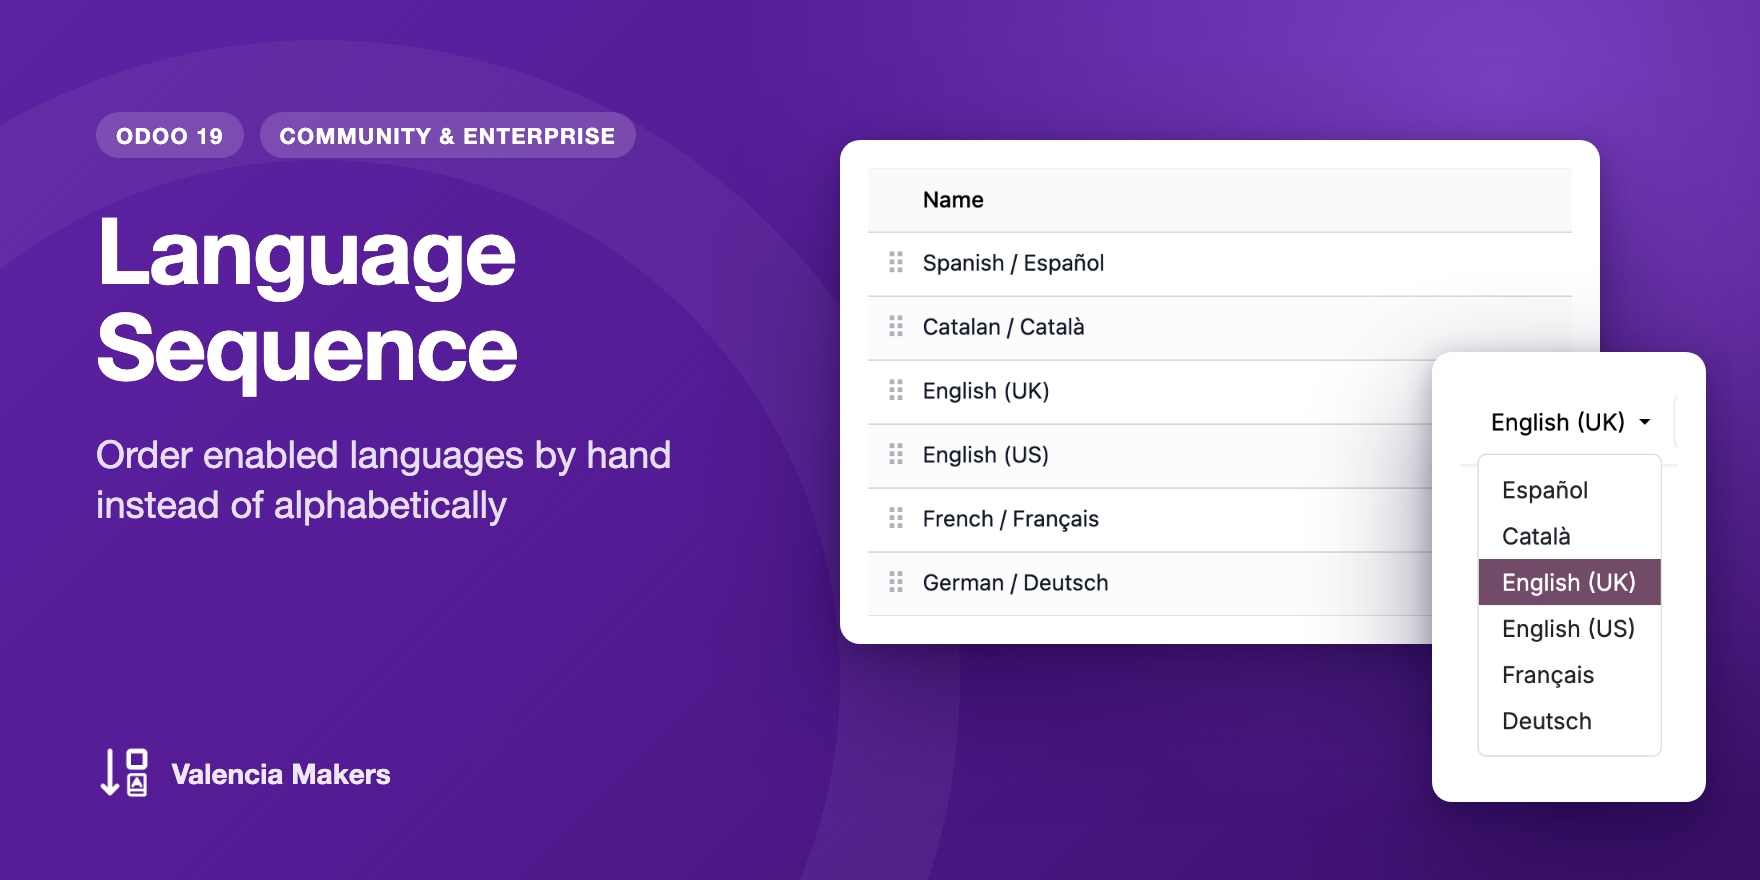
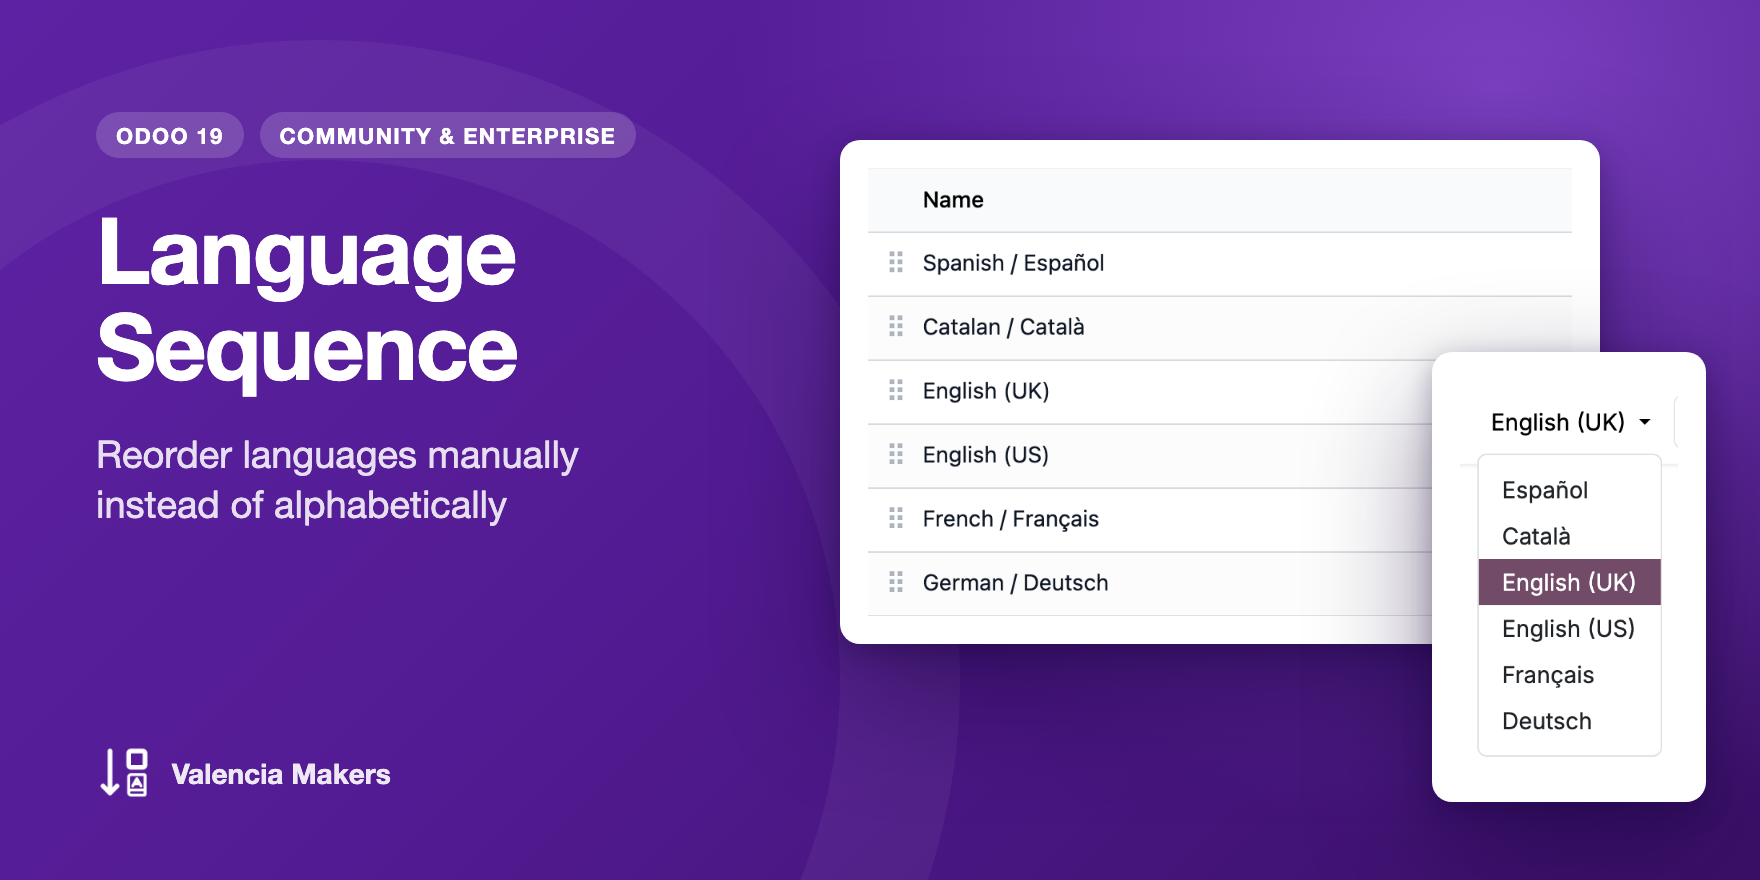
Apply Felix's text review to Language Sequence's store page and manual
- Summary: "Reorder languages manually instead of alphabetically". Odoo's own text never says
  "by hand"; it says "reorder" and "manually". Updated in the manifest, the POT and both
  translations, the test that checks for them, the cover tagline, and both READMEs.
- Page: a new tagline and intro, the before-and-after caption, and tighter bullets. The note on
  developer mode now says where the Languages list is. The manual and README follow.

Changed region(s): [[0.0625, 0.4909, 0.375, 0.5523]]

diff --git a/vmk_language_sequence/static/description/index.html b/vmk_language_sequence/static/description/index.html
@@ -1,14 +1,14 @@
 <section class="oe_container">
     <div class="oe_row oe_spaced">
         <h2 class="oe_slogan" style="font-family:Lato, 'Open Sans', Helvetica, sans-serif; font-weight:300; text-align:center; margin:32px 0; font-size:40px; line-height:48px; color:light-dark(#531B93, #B794F4);">Language Sequence</h2>
-        <h3 class="oe_slogan" style="font-family:Lato, 'Open Sans', Helvetica, sans-serif; font-weight:300; text-align:center; margin:32px 0; font-size:26px; line-height:31px; color:light-dark(#333333, #E4E4E4); opacity:0.5;">Put your languages in the order your customers expect</h3>
+        <h3 class="oe_slogan" style="font-family:Lato, 'Open Sans', Helvetica, sans-serif; font-weight:300; text-align:center; margin:32px 0; font-size:26px; line-height:31px; color:light-dark(#333333, #E4E4E4); opacity:0.5;">Display your languages in the order your users expect</h3>
         <div class="oe_span12">
             <img class="oe_screenshot" style="max-width:100%;" src="main_screenshot.png" alt="The Languages list with drag handles, ordered Spanish, Catalan, English (UK), English (US), French, German"/>
         </div>
         <div class="oe_span12">
             <div class="oe_mt32" style="max-width:700px; margin-left:auto; margin-right:auto;">
                 <p style="font-family:-apple-system, system-ui, 'Segoe UI', Roboto, 'Helvetica Neue', Ubuntu, 'Noto Sans', Arial, sans-serif; font-size:14px; font-weight:400; line-height:21px; color:light-dark(#111827, #E4E4E4); margin:0 0 16px;">
-                    In standard Odoo, languages are always listed alphabetically by their English name, so a Valencia business's website offers Català, English, Français, Deutsch, Español, in that order. <b>Language Sequence</b> lets you drag your languages into the order you choose.
+                    In standard Odoo, languages are always listed alphabetically by their English name, so a Valencia business that offers Català, English, Français, Deutsch, and Español will display them in that order. <b>Language Sequence</b> lets you drag enabled languages into any order you choose.
                 </p>
             </div>
         </div>
@@ -18,7 +18,7 @@
 <section class="oe_container">
     <div class="oe_row oe_spaced">
         <h2 class="oe_slogan" style="font-family:Lato, 'Open Sans', Helvetica, sans-serif; font-weight:300; text-align:center; margin:32px 0; font-size:40px; line-height:48px; color:light-dark(#531B93, #B794F4);">Before and after</h2>
-        <h3 class="oe_slogan" style="font-family:Lato, 'Open Sans', Helvetica, sans-serif; font-weight:300; text-align:center; margin:32px 0; font-size:26px; line-height:31px; color:light-dark(#333333, #E4E4E4); opacity:0.5;">The website's language selector, in standard Odoo and ordered by hand</h3>
+        <h3 class="oe_slogan" style="font-family:Lato, 'Open Sans', Helvetica, sans-serif; font-weight:300; text-align:center; margin:32px 0; font-size:26px; line-height:31px; color:light-dark(#333333, #E4E4E4); opacity:0.5;">The language selector, as shown in the website navigation</h3>
         <div class="oe_span12">
             <div class="row" style="max-width:440px; margin:32px auto 0;">
                 <div class="col-6" style="margin-bottom:24px;">
@@ -33,19 +33,19 @@
             <div class="row" style="max-width:800px; margin:24px auto 20px;">
                 <div class="col-md-6" style="margin-bottom:28px;"><div style="display:flex;">
                     <span class="fa fa-arrows-v fa-2x fa-fw" style="color:light-dark(#531B93, #B794F4); margin-right:16px;"></span>
-                    <p style="font-family:-apple-system, system-ui, 'Segoe UI', Roboto, 'Helvetica Neue', Ubuntu, 'Noto Sans', Arial, sans-serif; font-size:14px; font-weight:400; line-height:21px; color:light-dark(#111827, #E4E4E4); margin:0;">Drag languages into order on the Languages list, with the same handles Odoo uses elsewhere.</p>
+                    <p style="font-family:-apple-system, system-ui, 'Segoe UI', Roboto, 'Helvetica Neue', Ubuntu, 'Noto Sans', Arial, sans-serif; font-size:14px; font-weight:400; line-height:21px; color:light-dark(#111827, #E4E4E4); margin:0;">Drag languages into any order in the Languages list, with the same handles Odoo uses elsewhere.</p>
                 </div></div>
                 <div class="col-md-6" style="margin-bottom:28px;"><div style="display:flex;">
                     <span class="fa fa-globe fa-2x fa-fw" style="color:light-dark(#531B93, #B794F4); margin-right:16px;"></span>
-                    <p style="font-family:-apple-system, system-ui, 'Segoe UI', Roboto, 'Helvetica Neue', Ubuntu, 'Noto Sans', Arial, sans-serif; font-size:14px; font-weight:400; line-height:21px; color:light-dark(#111827, #E4E4E4); margin:0;">The website's language selector and the language lists in its footer follow your order.</p>
+                    <p style="font-family:-apple-system, system-ui, 'Segoe UI', Roboto, 'Helvetica Neue', Ubuntu, 'Noto Sans', Arial, sans-serif; font-size:14px; font-weight:400; line-height:21px; color:light-dark(#111827, #E4E4E4); margin:0;">The website language selector and the footer language list follow your custom order.</p>
                 </div></div>
                 <div class="col-md-6" style="margin-bottom:28px;"><div style="display:flex;">
                     <span class="fa fa-user fa-2x fa-fw" style="color:light-dark(#531B93, #B794F4); margin-right:16px;"></span>
-                    <p style="font-family:-apple-system, system-ui, 'Segoe UI', Roboto, 'Helvetica Neue', Ubuntu, 'Noto Sans', Arial, sans-serif; font-size:14px; font-weight:400; line-height:21px; color:light-dark(#111827, #E4E4E4); margin:0;">The language dropdowns on users and contacts follow it too.</p>
+                    <p style="font-family:-apple-system, system-ui, 'Segoe UI', Roboto, 'Helvetica Neue', Ubuntu, 'Noto Sans', Arial, sans-serif; font-size:14px; font-weight:400; line-height:21px; color:light-dark(#111827, #E4E4E4); margin:0;">The language dropdowns on user and contact forms follow your custom order too.</p>
                 </div></div>
                 <div class="col-md-6" style="margin-bottom:28px;"><div style="display:flex;">
                     <span class="fa fa-undo fa-2x fa-fw" style="color:light-dark(#531B93, #B794F4); margin-right:16px;"></span>
-                    <p style="font-family:-apple-system, system-ui, 'Segoe UI', Roboto, 'Helvetica Neue', Ubuntu, 'Noto Sans', Arial, sans-serif; font-size:14px; font-weight:400; line-height:21px; color:light-dark(#111827, #E4E4E4); margin:0;">Nothing else changes; uninstall the module and the alphabetical order returns.</p>
+                    <p style="font-family:-apple-system, system-ui, 'Segoe UI', Roboto, 'Helvetica Neue', Ubuntu, 'Noto Sans', Arial, sans-serif; font-size:14px; font-weight:400; line-height:21px; color:light-dark(#111827, #E4E4E4); margin:0;">Nothing else changes; uninstall the module and the default alphabetical order returns.</p>
                 </div></div>
             </div>
         </div>
@@ -55,11 +55,11 @@
 <section class="oe_container">
     <div class="oe_row oe_spaced">
         <h2 class="oe_slogan" style="font-family:Lato, 'Open Sans', Helvetica, sans-serif; font-weight:300; text-align:center; margin:32px 0; font-size:40px; line-height:48px; color:light-dark(#531B93, #B794F4);">Small and focused on purpose</h2>
-        <h3 class="oe_slogan" style="font-family:Lato, 'Open Sans', Helvetica, sans-serif; font-weight:300; text-align:center; margin:32px 0; font-size:26px; line-height:31px; color:light-dark(#333333, #E4E4E4); opacity:0.5;">Only the order of your languages changes</h3>
+        <h3 class="oe_slogan" style="font-family:Lato, 'Open Sans', Helvetica, sans-serif; font-weight:300; text-align:center; margin:32px 0; font-size:26px; line-height:31px; color:light-dark(#333333, #E4E4E4); opacity:0.5;">Only the display order of your languages changes</h3>
         <div class="oe_span12">
             <div class="oe_mt32" style="max-width:700px; margin-left:auto; margin-right:auto;">
                 <p style="font-family:-apple-system, system-ui, 'Segoe UI', Roboto, 'Helvetica Neue', Ubuntu, 'Noto Sans', Arial, sans-serif; font-size:14px; font-weight:400; line-height:21px; color:light-dark(#111827, #E4E4E4); margin:0 0 16px;">
-                    New languages you enable are added at the end of the list, and can be dragged into place. The Languages list is visible while the site is in developer mode.
+                    New languages you enable are added to the end of the list, and can be dragged into place. Odoo shows the Languages list only in developer mode, under Settings → Translations → Languages.
                 </p>
                 <p style="font-family:-apple-system, system-ui, 'Segoe UI', Roboto, 'Helvetica Neue', Ubuntu, 'Noto Sans', Arial, sans-serif; font-size:14px; font-weight:400; line-height:21px; color:light-dark(#111827, #E4E4E4); margin:0 0 16px;">
                     This module requires the <b>Website</b> app, and works on both Community and Enterprise.

diff --git a/tools/covers/vmk_language_sequence.html b/tools/covers/vmk_language_sequence.html
@@ -9,7 +9,7 @@
     <div class="text">
         <div class="badges"><span class="badge">Odoo 19</span><span class="badge">Community &amp; Enterprise</span></div>
         <h1>Language<br>Sequence</h1>
-        <p class="tagline">Order enabled languages by hand<br>instead of alphabetically</p>
+        <p class="tagline">Reorder languages manually<br>instead of alphabetically</p>
     </div>
     <div class="brand"><img src="../../vmk_language_sequence/static/description/icon.png" alt="">Valencia Makers</div>
     <!-- Behind: the Languages list's handles and names (main_screenshot.png, x 40-480, y 104-384) at 0.8; in front, the website selector at 0.72. -->

diff --git a/vmk_language_sequence/tests/test_language_sequence.py b/vmk_language_sequence/tests/test_language_sequence.py
@@ -179,7 +179,7 @@ class TestModuleNameTranslation(TransactionCase):
     I18N = Path(__file__).resolve().parent.parent / "i18n"
     HAND_MAINTAINED = (
         "Language Sequence",
-        "Order enabled languages by hand instead of alphabetically",
+        "Reorder languages manually instead of alphabetically",
     )
 
     def test_pot_still_carries_the_hand_added_module_metadata(self):

diff --git a/vmk_language_sequence/__manifest__.py b/vmk_language_sequence/__manifest__.py
@@ -3,7 +3,7 @@
 
 {
     "name": "Language Sequence",
-    "summary": "Order enabled languages by hand instead of alphabetically",
+    "summary": "Reorder languages manually instead of alphabetically",
     "version": "19.0.1.1.1",
     "author": "Valencia Makers",
     "license": "LGPL-3",

diff --git a/vmk_language_sequence/doc/index.rst b/vmk_language_sequence/doc/index.rst
@@ -1,8 +1,8 @@
-Order enabled languages by hand instead of alphabetically.
+Reorder languages manually instead of alphabetically.
 
-In standard Odoo, languages are always listed alphabetically by their English name, so the website
-offers *Català, English, Français, Deutsch, Español*, in that order. This module lets you drag your
-languages into the order you choose.
+In standard Odoo, languages are always listed alphabetically by their English name, so a Valencia
+business that offers *Català, English, Français, Deutsch,* and *Español* will display them in that
+order. This module lets you drag enabled languages into any order you choose.
 
 **Installation**
 
@@ -11,19 +11,19 @@ Install **Language Sequence** from the Apps menu. It requires the **Website** ap
 **Using it**
 
 #. Turn on developer mode, then go to **Settings > Translations > Languages**.
-#. Drag the enabled languages into the order you want, using the handle at the start of each row.
+#. Drag the enabled languages into any order, using the handle at the start of each row.
 
 Your order is used by:
 
-- the website's language selector, in the header and the footer
-- the language dropdowns on users and contacts
+- the website language selector and the footer language list
+- the language dropdowns on user and contact forms
 - the Languages list itself
 
-New languages you enable are added at the end of the list, and can be dragged into place.
+New languages you enable are added to the end of the list, and can be dragged into place.
 
 **Limits**
 
-- **The Languages list is visible while the site is in developer mode**, as in standard Odoo.
+- **Odoo shows the Languages list only in developer mode**, and this module leaves that as it is.
 - **With two variants of one language enabled** (Spanish from Spain and Latin America, say), the
   website's short language code goes to the alphabetically first, whatever your order.
 

diff --git a/vmk_language_sequence/README.md b/vmk_language_sequence/README.md
@@ -1,9 +1,9 @@
 # Language Sequence (`vmk_language_sequence`)
 
-Order enabled languages by hand instead of alphabetically. In standard Odoo, languages are always
-listed alphabetically by their English name, so the website offers _Català, English, Français,
-Deutsch, Español_, in that order. This module lets you drag your languages into the order you
-choose.
+Reorder languages manually instead of alphabetically. In standard Odoo, languages are always listed
+alphabetically by their English name, so a Valencia business that offers _Català, English, Français,
+Deutsch,_ and _Español_ will display them in that order. This module lets you drag enabled languages
+into any order you choose.
 
 **How to use it** is in the user documentation, [`doc/index.rst`](doc/index.rst), which the Odoo
 Apps Store also shows on the module's page, together with the changelog.
@@ -19,7 +19,7 @@ the enabled languages appear in the order you choose.
 The chosen order drives:
 
 - the **website language selector** in the site header;
-- the **language dropdowns** on users and contacts;
+- the **language dropdowns** on user and contact forms;
 - the Languages list itself, and any other `res.lang` search.
 
 ### Why it needs more than a `sequence` field

diff --git a/README.md b/README.md
@@ -8,7 +8,7 @@ They depend only on Odoo Community modules, so they work on Community and Enterp
 
 ## Modules
 
-- **[`vmk_language_sequence`](vmk_language_sequence)** — order the enabled languages by hand, by
+- **[`vmk_language_sequence`](vmk_language_sequence)** — reorder the enabled languages manually, by
   dragging, instead of alphabetically: in the website language selector, the language dropdowns on
   users and contacts, and the Languages list itself.
 - **[`vmk_language_protect_settings`](vmk_language_protect_settings)** — stop Odoo module updates
